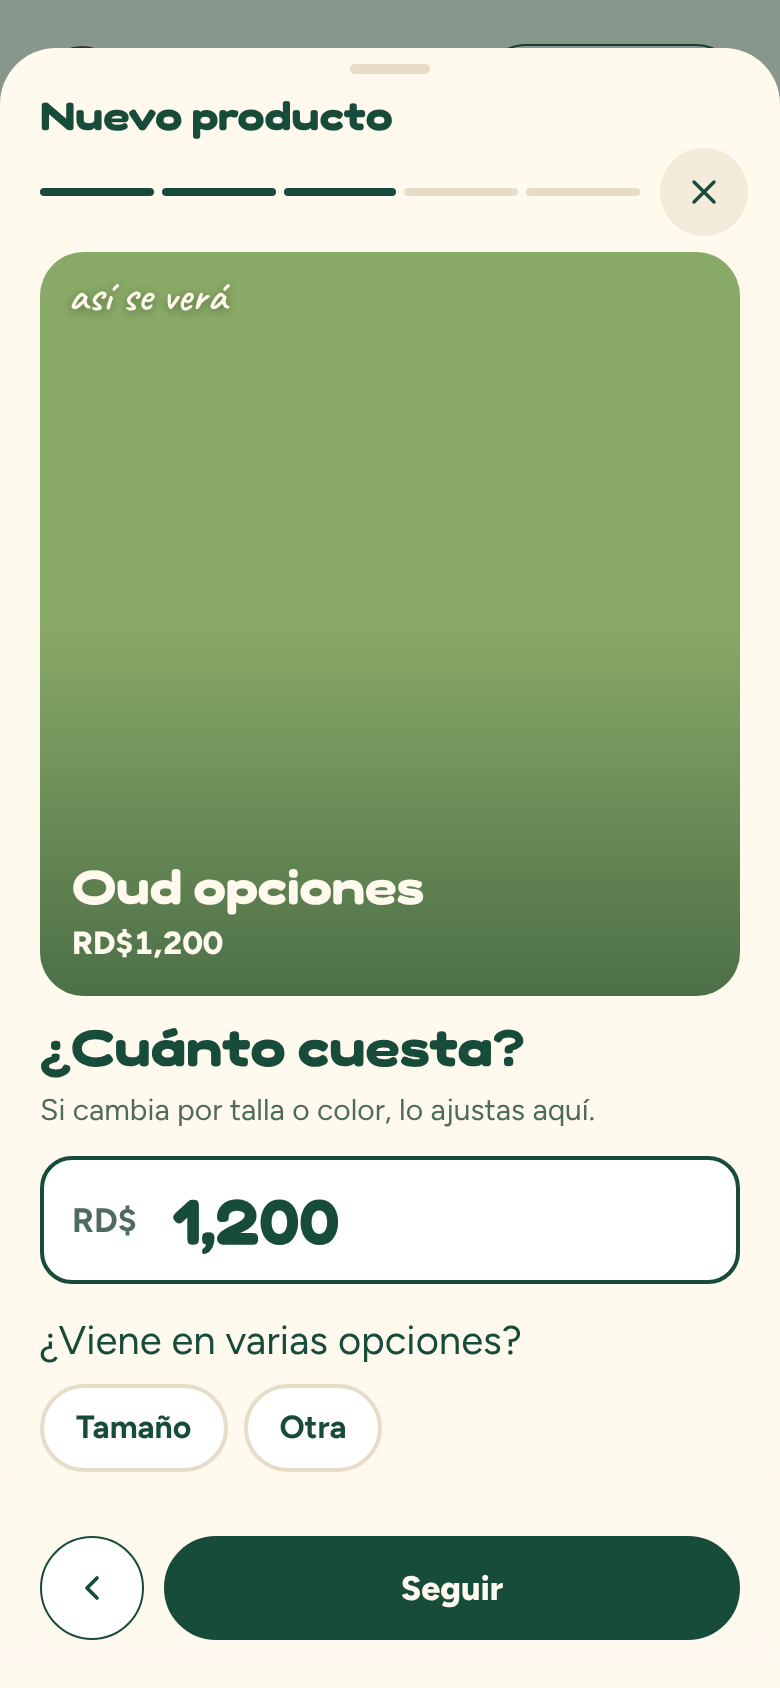
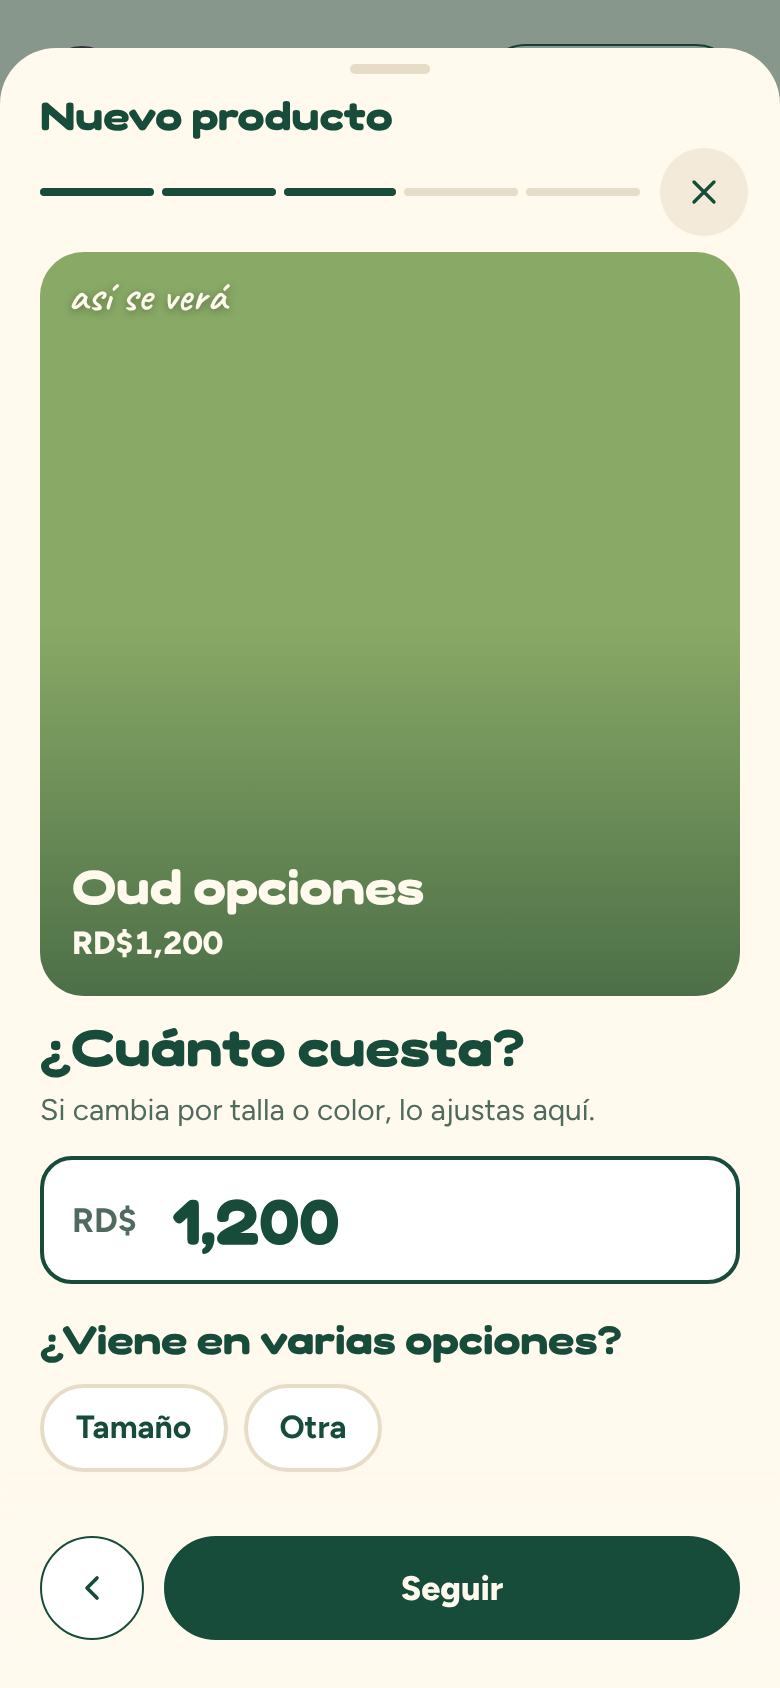
La pregunta de opciones usa la fuente de títulos (Fredoka)
Claude-Session: https://claude.ai/code/session_01YVQoDtXC6ENVKt8h8PCLaA

Changed region(s): [[0.0615, 0.7701, 0.8, 0.8009]]

diff --git a/components/catalogo/historia-producto.tsx b/components/catalogo/historia-producto.tsx
@@ -603,7 +603,7 @@ function Historia({
                 </div>
               ) : (
                 <>
-                  <h2 className="text-titulo-seccion text-texto" data-pregunta-opciones="">¿Viene en varias opciones?</h2>
+                  <h2 className="font-display text-titulo-seccion text-texto" data-pregunta-opciones="">¿Viene en varias opciones?</h2>
                   <div role="group" aria-label="¿Viene en varias opciones?" className="mt-2.5 flex flex-wrap gap-2">
                     {OPCIONES_TIPICAS[tipo].slice(0, MAX_EJES).map((cosa) => (
                       <Eleccion key={cosa} accion elegida={false} onClick={() => abrirVariantes(cosa)}>{cosa}</Eleccion>
